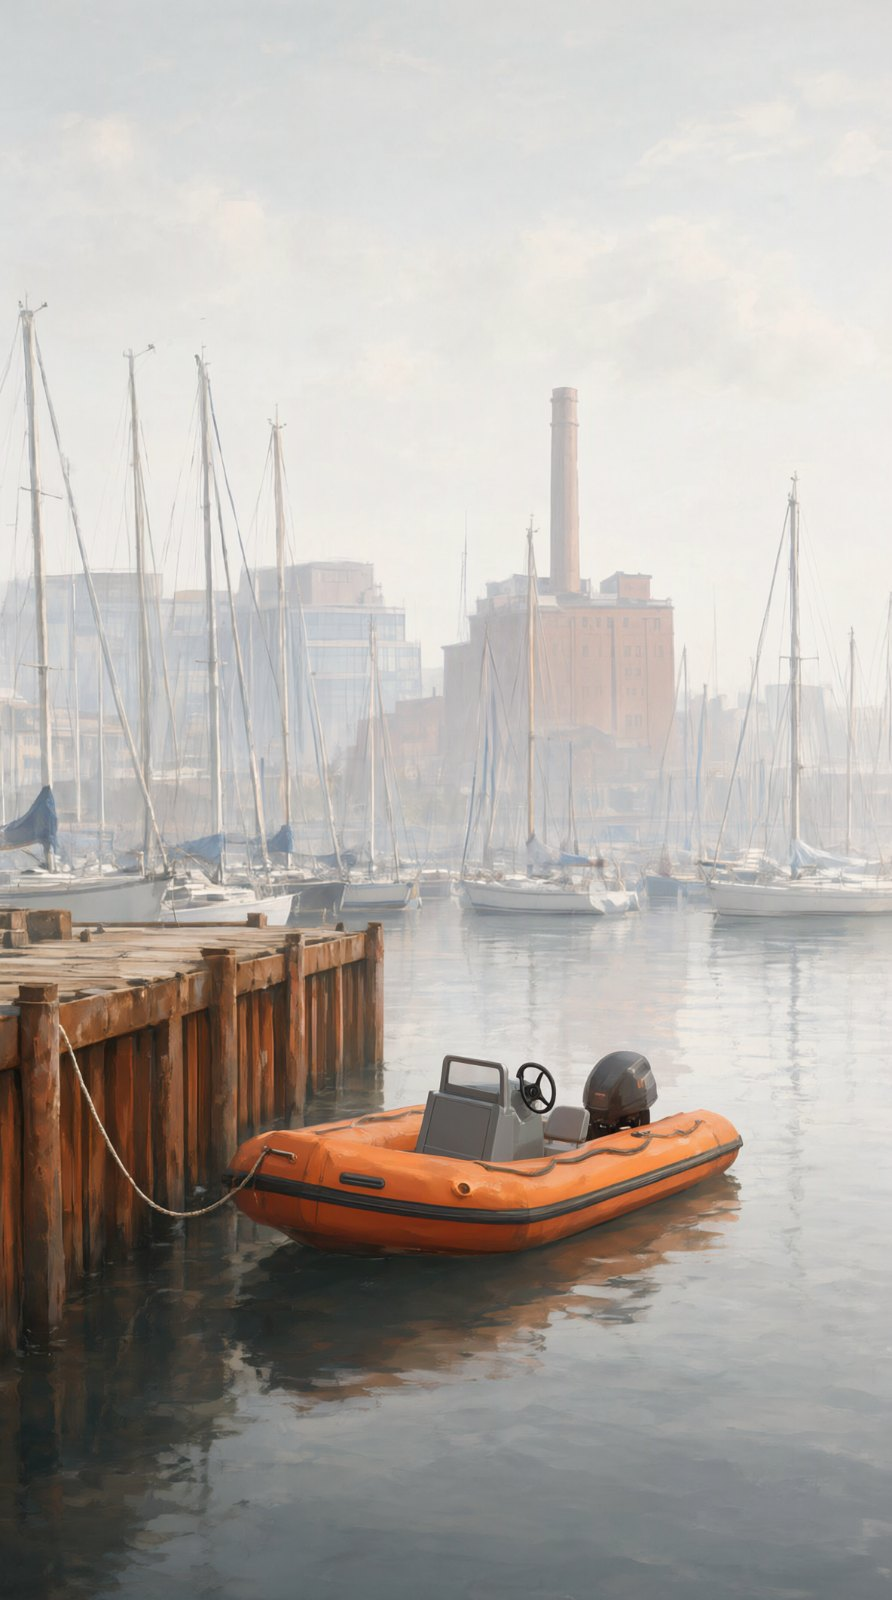
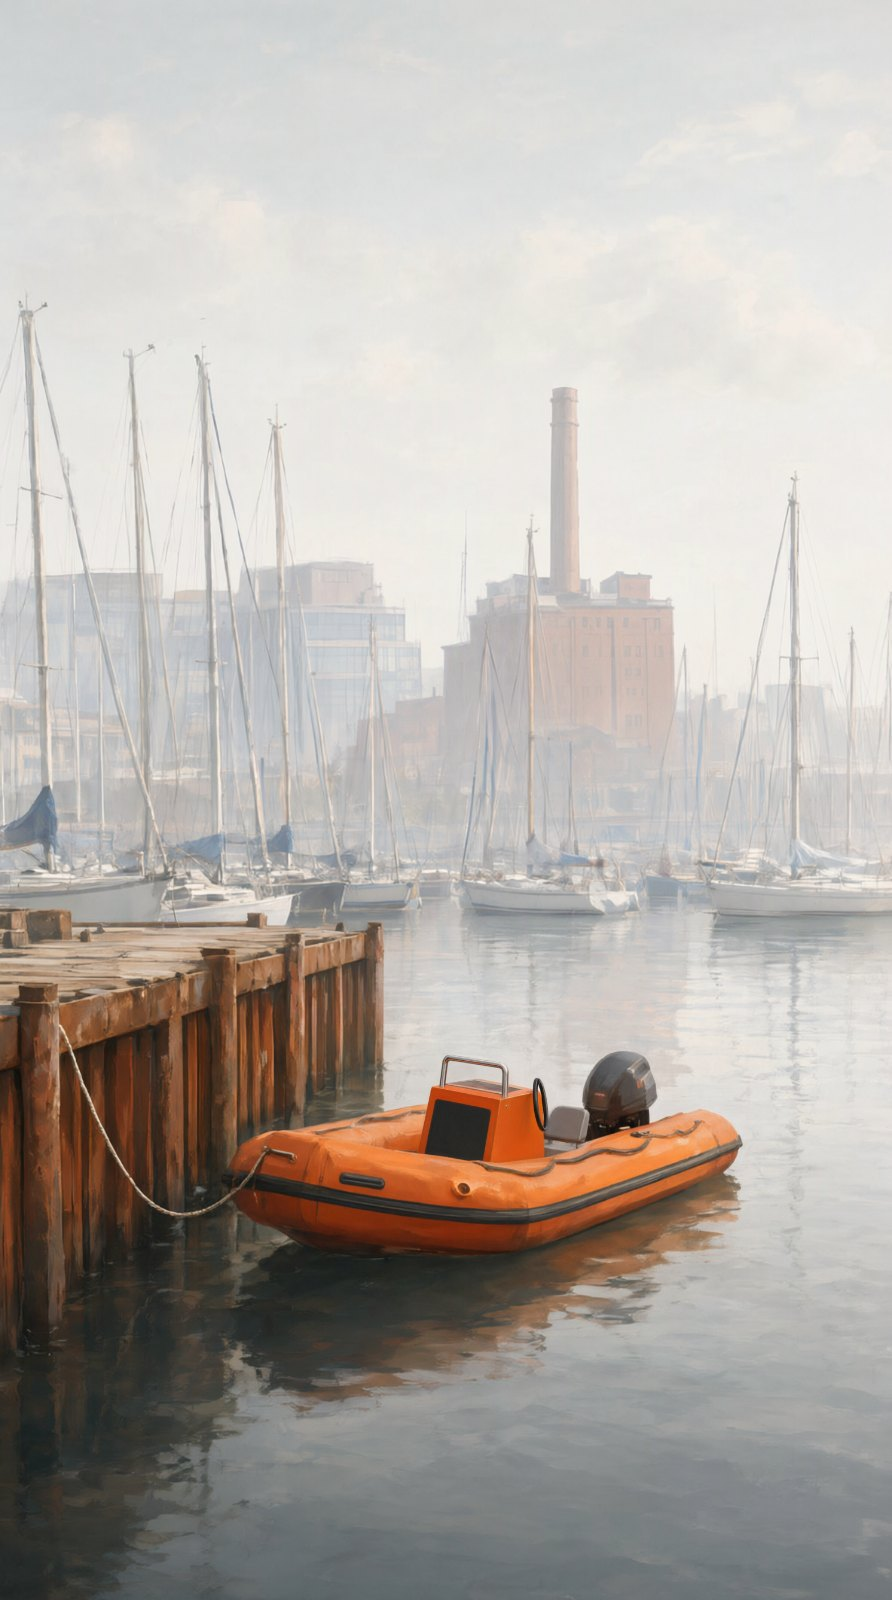
Hub backgrounds: repaint the RIB console - wheel on the aft face of an orange centre console
The club RIB in hub-land.jpg / hub-port.jpg had its steering wheel on the side
of a grey console, facing the viewer. Repainted just the console area (Qwen-Image
edit on a 2x crop around the RIB, feathered back into the original at full size):
orange centre console with a black front panel, stainless rail, wheel on the aft
face seen edge-on, jockey seat behind. Rest of each painting unchanged.

Claude-Session: https://claude.ai/code/session_018V3eGUb9BUcD86GgU6dBSv

Changed region(s): [[0.454, 0.6562, 0.6357, 0.75]]

diff --git a/sw.js b/sw.js
@@ -3,7 +3,7 @@
 // A new VERSION (hash of all files) installs a new cache; the page shows a "new version" toast and posts
 // {type: 'skipWaiting'} when the player taps "Opdater".
 // <precache> generated by tools/gen-precache.js - do not edit by hand
-const VERSION = 'e283e0147add';
+const VERSION = '3b5593cd626a';
 const PRECACHE = [
   'index.html',
   'manifest.webmanifest',
